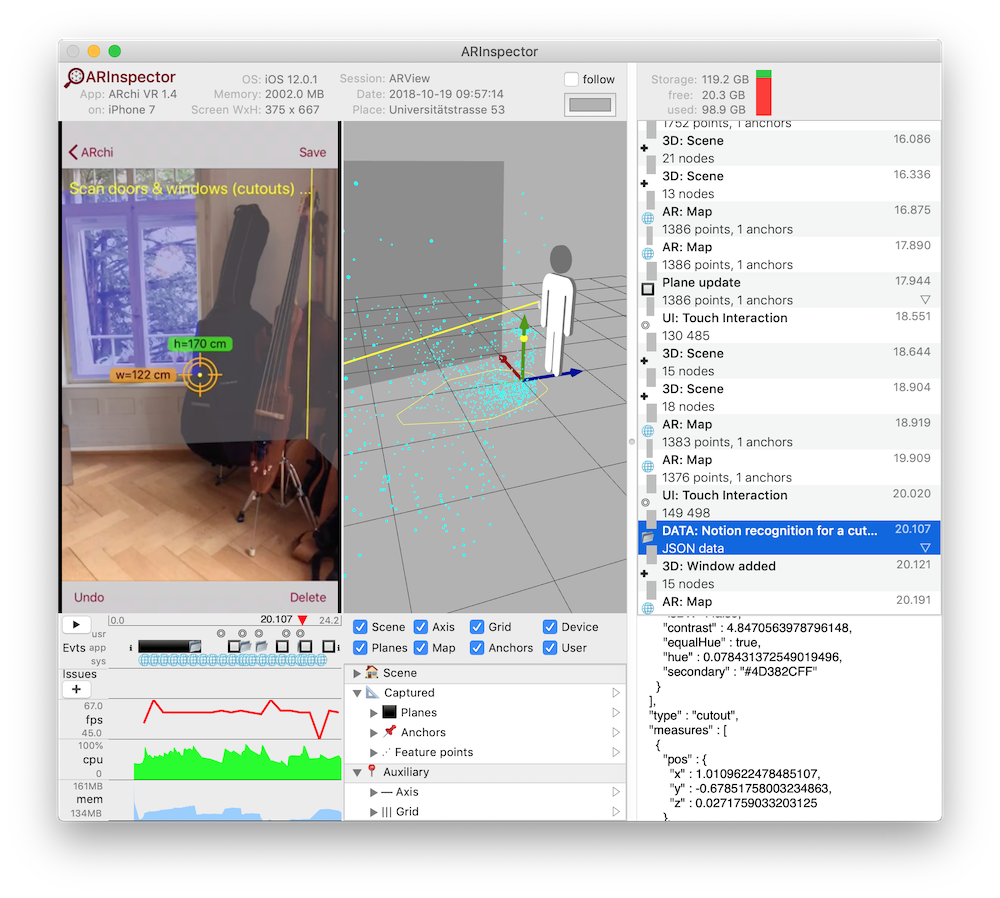
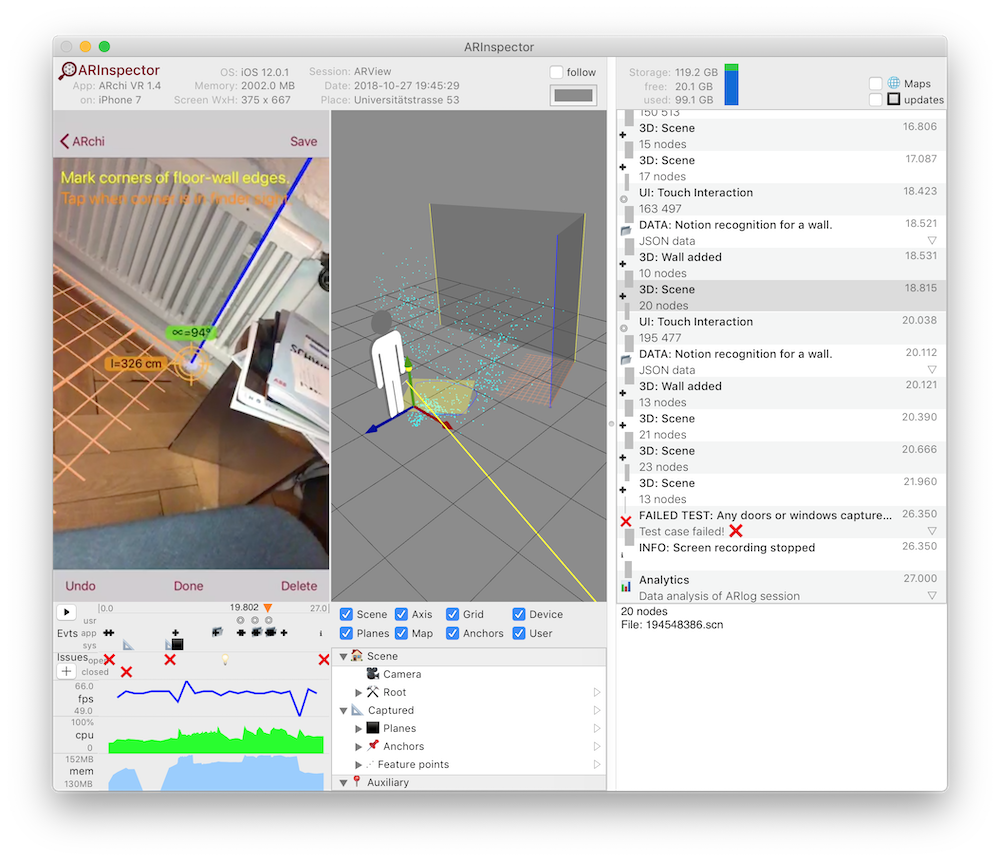
Test cases and ML logging added

diff --git a/ARlog.swift b/ARlog.swift
@@ -18,6 +18,10 @@ private let ARLOG_ENABLED = true // turn functionality of ARlog on/off
 // Be aware of storage usage by ARlog especially by screen recording.
 private let MAX_SAVED_SESSIONS = 4 // Amount of sessions on device. Olders will be deleted.
 
+// CONSTANTS
+public let atSessionStart:Double = 0.0
+public let atSessionEnd:Double = Double.greatestFiniteMagnitude
+
 // MAIN CLASS -------------------------------------------------------------------------
 
 public class ARlog {
@@ -43,7 +47,7 @@ public class ARlog {
     static var isScreenRecording = false
     static var assetWriter: AVAssetWriter!
     static var videoInput: AVAssetWriterInput!
-
+    static var testCases:[ARTestCase] = []
     static var session:LogSession!
     static var dateFormat = "yyyy-MM-dd HH:mm:ss.SSS"
     static var dateFormatter: DateFormatter {
@@ -67,6 +71,7 @@ public class ARlog {
     static var previousNodesCount:Int = 0
     static var fpsResetTime:Date = Date.init()
     static var frameCount = -1
+    static var testResetTime:Date = Date.init()
 
     // public static functions
     
@@ -96,6 +101,19 @@ public class ARlog {
     
     // use finalizeFunction to set user, location, and extra
     static func stop(finalizeFunction: () -> Void = {}) {
+        // run missing tests
+        for test in testCases {
+            if !test.executed {
+                test.passed = test.condition()
+                if test.passed {
+                    ARlog.session.logItems.append(LogItem(type: LogSymbol.passed.rawValue, title: test.description))
+                } else {
+                    ARlog.session.logItems.append(LogItem(type: LogSymbol.failed.rawValue, title: test.description))
+                }
+                test.executed = true
+            }
+        }
+        
         finalizeFunction()
         if !isEnabled {
             return
@@ -276,6 +294,75 @@ public class ARlog {
         }
         let str = String(format: "%i points, %i anchors", pointAmount, anchorAmount)
         ARlog.session.logItems.append(LogItem(type: LogSymbol.map.rawValue, title: title, data: str, assetPath: fileName))
+    }
+    
+    // colors as hexcode "#RRGGBBAA"
+    static func dominantColors(primary:String, secondary:String = "", relRect:CGRect = CGRect(x:0.0, y:0.0, width:1.0, height:1.0)) {
+        var observation = SpaceObservation()
+        observation.type = ObservationType.dominantColors.rawValue
+        observation.confidence = 1.0
+        if secondary.count > 0 {
+            observation.feature = primary + " " + secondary
+        } else {
+            observation.feature = primary
+        }
+        var str = "observation"
+        observation.bbox.append(Float((relRect.origin.x)))
+        observation.bbox.append(Float((relRect.origin.y)))
+        observation.bbox.append(Float((relRect.size.width)))
+        observation.bbox.append(Float((relRect.size.height)))
+        ARlog.encoder.outputFormatting = .prettyPrinted
+        let data = try? ARlog.encoder.encode(observation)
+        if data != nil {
+            str = String(data: data!, encoding: .utf8)!
+        }
+        ARlog.session.logItems.append(LogItem(type: LogSymbol.image.rawValue, title: "Dominant Colors", data: str))
+    }
+    
+    static func classifiedImage(label:String, confidence:Float, relRect:CGRect = CGRect(x:0.0, y:0.0, width:1.0, height:1.0)) {
+        var observation = SpaceObservation()
+        observation.type = ObservationType.classifiedImage.rawValue
+        observation.feature = label
+        observation.confidence = confidence
+        var str = "observation"
+        observation.bbox.append(Float((relRect.origin.x)))
+        observation.bbox.append(Float((relRect.origin.y)))
+        observation.bbox.append(Float((relRect.size.width)))
+        observation.bbox.append(Float((relRect.size.height)))
+        ARlog.encoder.outputFormatting = .prettyPrinted
+        let data = try? ARlog.encoder.encode(observation)
+        if data != nil {
+            str = String(data: data!, encoding: .utf8)!
+        }
+        ARlog.session.logItems.append(LogItem(type: LogSymbol.image.rawValue, title: "Image classified", data: str))
+    }
+    
+    static func detectedImage(label:String, confidence:Float, relRect:CGRect = CGRect(x:0.0, y:0.0, width:1.0, height:1.0)) {
+        var observation = SpaceObservation()
+        observation.type = ObservationType.detectedImage.rawValue
+        observation.feature = label
+        observation.confidence = confidence
+        var str = "observation"
+        observation.bbox.append(Float((relRect.origin.x)))
+        observation.bbox.append(Float((relRect.origin.y)))
+        observation.bbox.append(Float((relRect.size.width)))
+        observation.bbox.append(Float((relRect.size.height)))
+        ARlog.encoder.outputFormatting = .prettyPrinted
+        let data = try? ARlog.encoder.encode(observation)
+        if data != nil {
+            str = String(data: data!, encoding: .utf8)!
+        }
+        ARlog.session.logItems.append(LogItem(type: LogSymbol.image.rawValue, title: "Image detected", data: str))
+    }
+    
+    // add test case with assertion to evaluate condition at time (in sec) after session start
+    static func test(_ desc:String, assert: @escaping () -> Bool, at:Double = atSessionEnd) {
+        let testCase = ARTestCase()
+        testCase.description = desc
+        testCase.condition = assert
+        testCase.time = at
+        testCases.append(testCase)
+        testCases.sort(by: { $0.time < $1.time })
     }
 
     static func createSessionFolder() -> URL? {
@@ -537,6 +624,27 @@ public class ARlog {
                 }
             }
         }
+        // check tests
+        if now.timeIntervalSince(testResetTime) >= 0.0 {
+            for test in testCases {
+                if now.timeIntervalSince(sessionStart!) >= test.time {
+                    if !test.executed {
+                        test.passed = test.condition()
+                        if test.passed {
+                            ARlog.session.logItems.append(LogItem(type: LogSymbol.passed.rawValue, title: test.description))
+                        } else {
+                            ARlog.session.logItems.append(LogItem(type: LogSymbol.failed.rawValue, title: test.description))
+                        }
+                        test.executed = true
+                    }
+                } else {
+                    testResetTime = (sessionStart?.addingTimeInterval(test.time))!
+                    break
+                }
+            }
+            ARlog.cam((sceneView!.pointOfView?.worldTransform)!)
+            testResetTime = now.addingTimeInterval(cameraInterval)
+        }
     }
     
     static public func didUpdate(anchor: ARAnchor) {
@@ -586,6 +694,7 @@ class ARlogStub : NSObject, ARSessionDelegate {
     }
     
     func session(_ session: ARSession, cameraDidChangeTrackingState camera: ARCamera) {
+        print("tracking state")
         var text = "unknown"
         switch camera.trackingState {
         case .notAvailable:
@@ -604,10 +713,17 @@ class ARlogStub : NSObject, ARSessionDelegate {
                 text = "Relocation of AR session"
             }
         }
-        ARlog.capture(text, title: "cameraDidChangeTrackingState")
+        ARlog.capture(text, title: "Tracking State")
     }
     
-    
+}
+
+class ARTestCase {
+    var description: String = ""
+    var time:Double = atSessionEnd
+    var condition:() -> Bool = { return false }
+    var executed:Bool = false
+    var passed:Bool = false
 }
 
 // EXTENSIONS -------------------------------------------------------------------------

diff --git a/ARlogItems.swift b/ARlogItems.swift
@@ -6,6 +6,8 @@
 //  See https://github.com/metason/ARlog for more details
 //
 
+#if DEBUG
+
 #if os(iOS)
 import UIKit
 #endif
@@ -33,6 +35,8 @@ public enum LogSymbol: String {
     case touch = "◎" // touch interaction
     case plane = "⬛" // AR detected plane
     case planeUpdate = "🔲" // Update of AR detected plane
+    case passed = "✔" // passed test
+    case failed = "❌" // failed test
     case image = "📷" // AR detected image
     case object = "⚫" // AR detected object
     case face = "🙂" // AR detected face
@@ -321,3 +325,23 @@ public struct SpaceMap : Codable {
     var points: [Float] = [Float]() // array of float3: The list of detected points
     var identifiers: [UInt64] = [UInt64] () // UUIDs corresponding to detected float3 feature points? Not used!
 }
+
+// CV & ML DATA STRUCTURES -------------------------------------------------------------------------
+public enum ObservationType: String {
+    case dominantColors = "dominant colors"
+    case classifiedImage = "classified image"
+    case detectedImage = "detected image"
+    case detectedFace = "detected face"
+    case detectedBarcode = "detected barcode"
+    case detectedText = "detected text"
+}
+
+public struct SpaceObservation : Codable {
+    var type: String = "" // ObservationType
+    var id: String = "" // UUID: A unique identifier for the observation.
+    var feature:String = ""
+    var confidence:Float = 1.0
+    var bbox: [Float] = [Float]() // 2D or 3D as x, y, (z,) width, height, (depth)
+}
+
+#endif

diff --git a/README.md b/README.md
@@ -80,13 +80,18 @@ The __ARInspector__ app supports the analysis of AR sessions recorded by ARlog. 
   * anchor points
   * generated 3D geometry added by the app to the scene
 * Tree view for inspecting the 3D scene graph
-* Keep video and 3D view in sync (view in 3D what the device camera looked at) 
+* Keep screen video and 3D view in sync (view in 3D what the device camera looked at) 
+* Highlight results of CV and ML in recorded screen video
 * List of events in a time-sorted table
 * Detailed data on events in a console
 * Create and manage issues (comments, ideas, bugs) within the session timeline
 
 ## ARlog Functions
-To enhance session logs with application-specific information, additional logging can be added programmatically in your code with the following functions.
+### Auto-Logging of AR activities
+ARlog will automatically capture and log basic activities of the AR library (feature points, anchors, planes) as well as system usage (cpu, memory, fps).
+
+### Inline Logging Functions
+To enhance session logs with application-specific information, additional logging can be added programmatically inline in your code with the following functions.
 
     ARlog.info(_ str:String) 
     ARlog.debug(_ str:String) 
@@ -99,14 +104,40 @@ To enhance session logs with application-specific information, additional loggin
     ARlog.map(_ map:ARWorldMap, title:String = "Map")
     
 In order to turn off ARlog set ARLOG_ENABLED = false at the beginning of ARlog.swift.
-If ARlog statements are embedded in  #if DEBUG conditions ARlog will not be linked to the productive release of your app. 
+If ARlog statements are embedded in #if DEBUG conditions ARlog will not be linked to the productive release of your app. 
 
-## Configure ARlog
+### Logging of Computer Vision (CV) and Machine Learning (ML) Results
+Create protocols of results gained by CV and ML techniques. _relRect_ depicts the relative bounding box rectangle within the screen. In ARInspector results are shown in the log timeline as well as overlay on top of the screen video. 
+
+    // colors as hexcode string e.g., "#RRGGBBAA"
+    ARlog.dominantColors(primary:String, secondary:String = "", relRect:CGRect = CGRect(x:0.0, y:0.0, width:1.0, height:1.0)) 
+    ARlog.classifiedImage(label:String, confidence:Float, relRect:CGRect = CGRect(x:0.0, y:0.0, width:1.0, height:1.0)) 
+    ARlog.detectedImage(label:String, confidence:Float, relRect:CGRect = CGRect(x:0.0, y:0.0, width:1.0, height:1.0)) 
+
+### Automatically Run Test Cases
+ARlog supports test cases that are automatically executed during an AR session. In ARInspector failed tests are added as open issues. Create test cases to ARlog with the following function:
+
+    // add test case with assertion to evaluate condition at time (in sec) after session start
+    ARlog.test(_ desc:String, assert: () -> Bool, at:Double = atSessionEnd)
+    
+Add  test cases to ARlog before the session is started. Here an example of some sample test cases:
+
+```swift
+    #if DEBUG
+        ARlog.test("A horizontal plane detected after 1 second?", assert: { return self.floorAnchor != nil }, at: 1.0)
+        ARlog.test("Floor detected after 3 seconds?", assert: { return self.mode != ARState.scanningFloor  }, at: 3.0)
+        ARlog.test("Any elements captured?", assert: { return self.elements.count > 0 })
+        ARlog.start(sceneView, sessionName: "ARSCNView")
+    #endif
+```
+    
+
+### Configure ARlog
 Configure the behavior of ARlog with these setting parameters.
 
     ARlog.maxSavedSessions = 4 // Amount of stored sessions on device. Olders will be deleted.
-    ARlog.autoLogScene:Bool = true // automatic logging of low-level events of ARKit
-    ARlog.continouslyLogScene:Bool = false // if false only scenes with changes in nodes are captured
+    ARlog.autoLogScene:Bool = true // automatic logging of 3D scene
+    ARlog.continouslyLogScene:Bool = false // if false scene is only captured when # of nodes changes 
     ARlog.autoLogMap:Bool = true // autolog WorldMaps
     ARlog.autoLogPlanes:Bool = true
     ARlog.autoLogImages:Bool = false // not yet implemented
